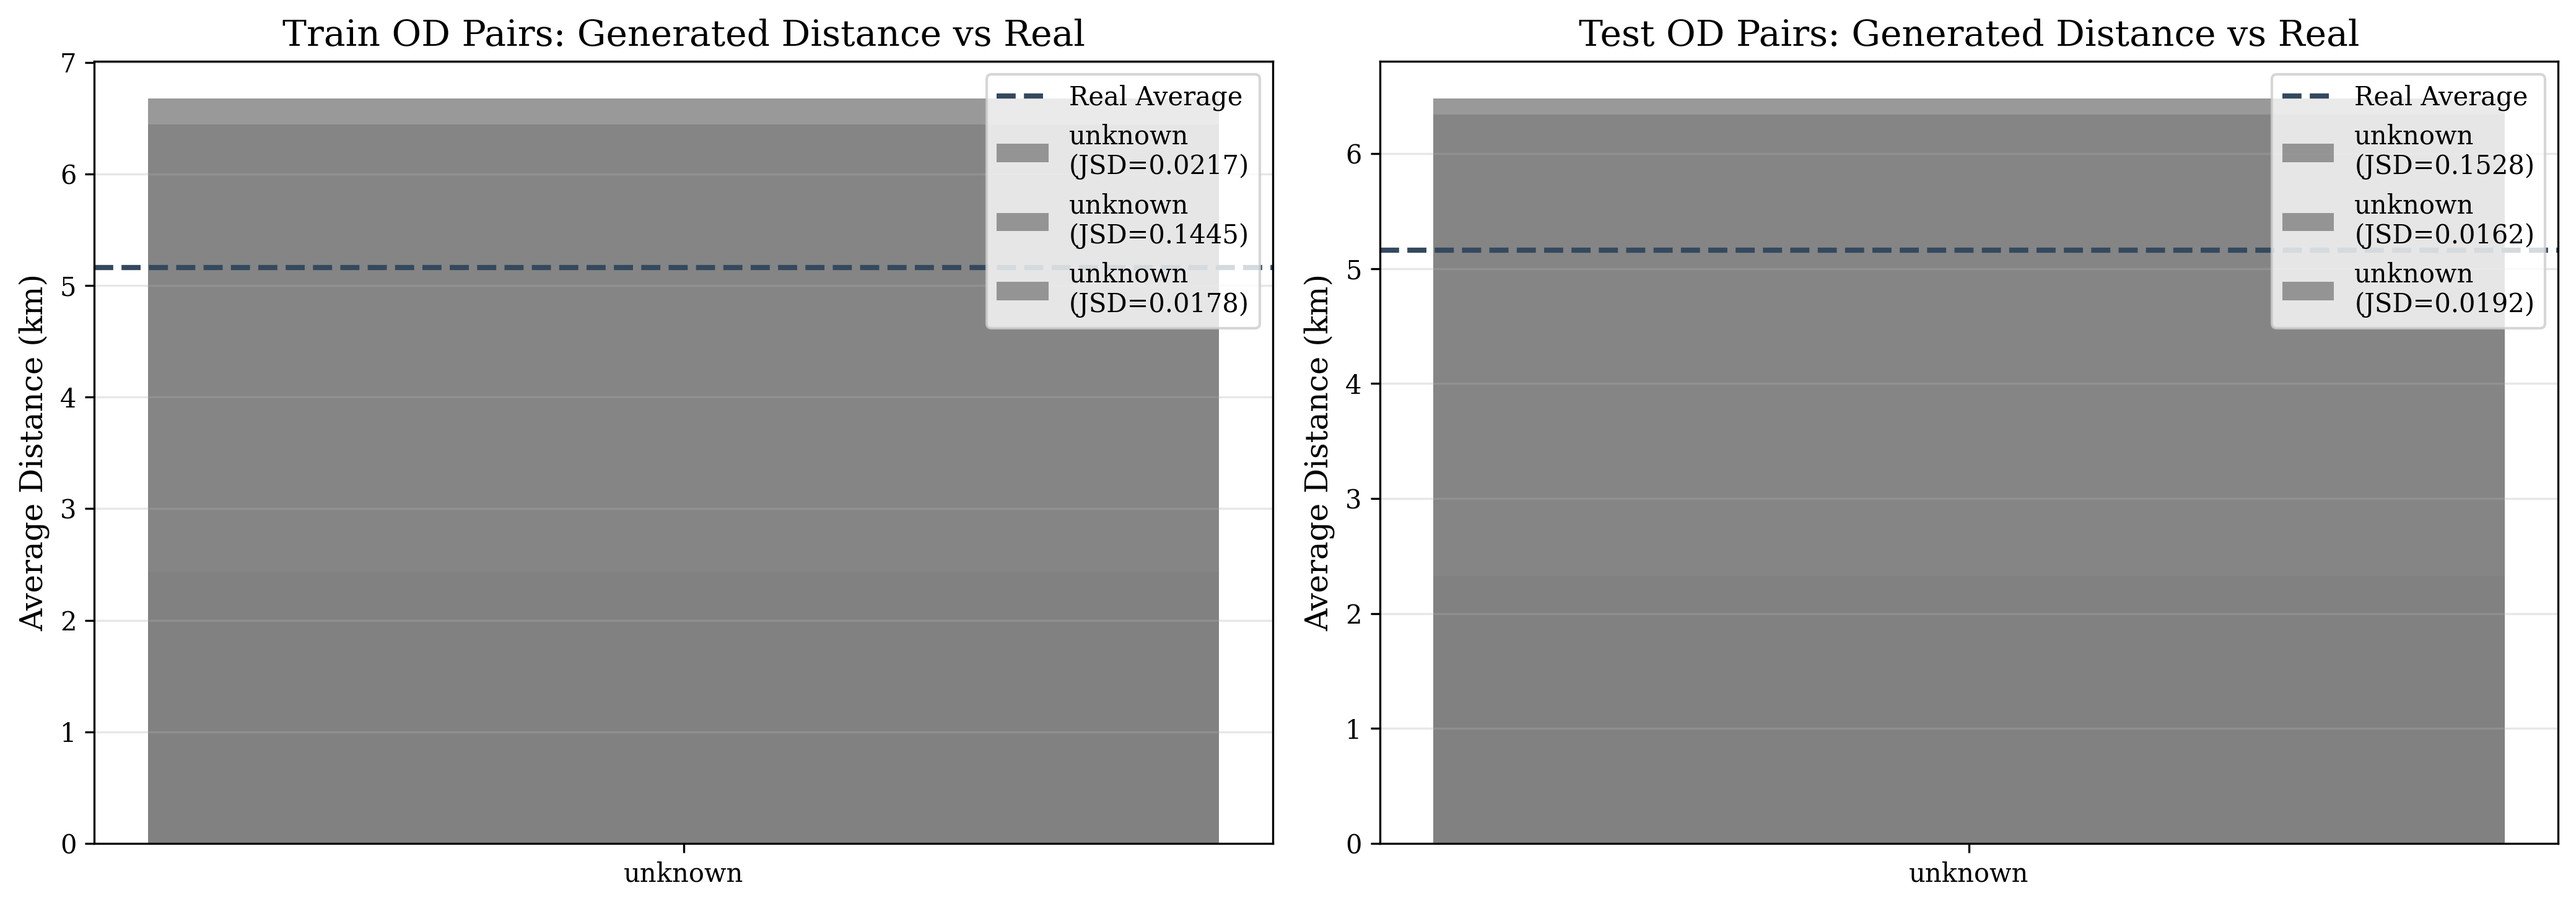
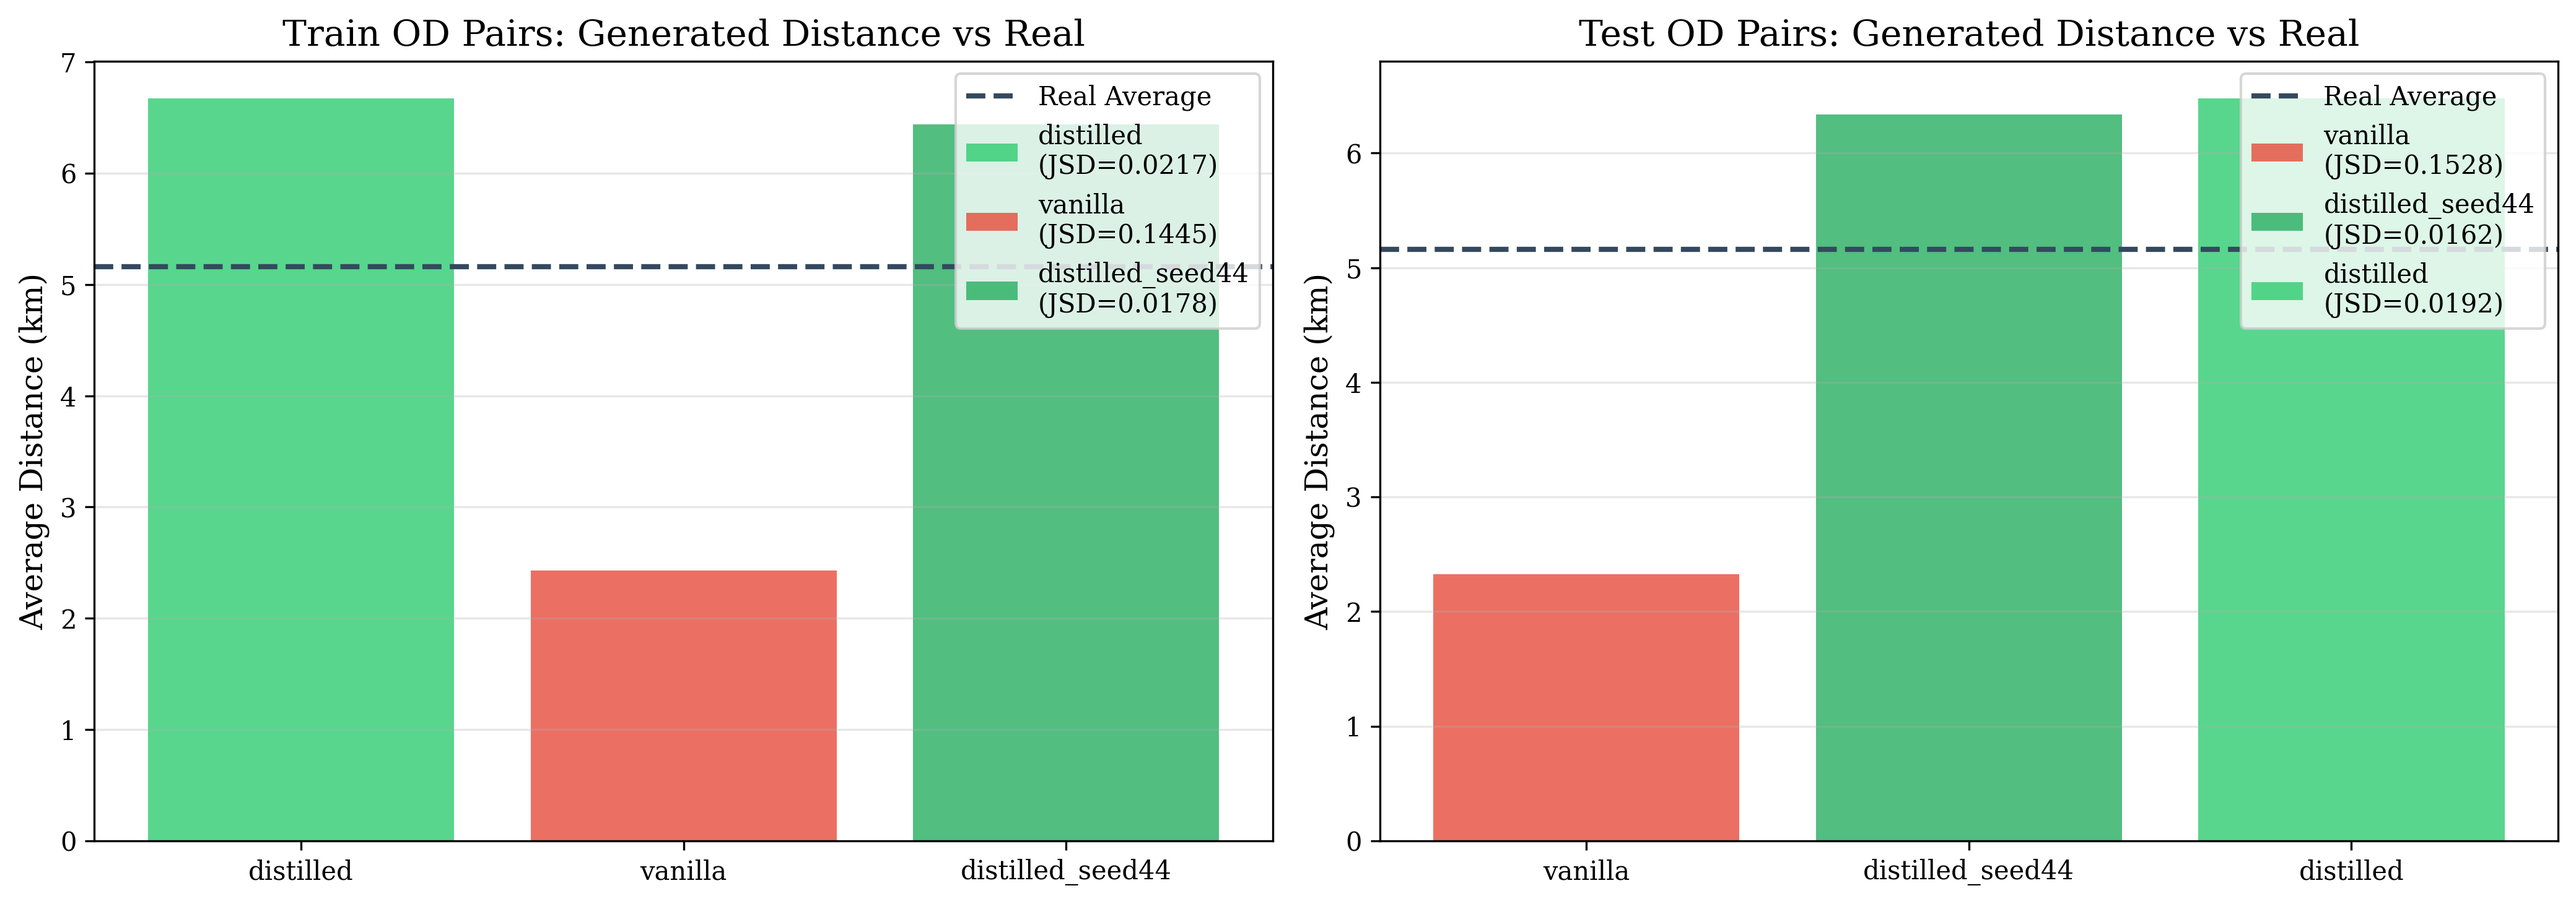
🐛 fix: correct model detection and sort heatmap in visualizations
- Fix model type detection using evaluation timestamp mapping
- Add fallback to filename-based detection for robustness
- Sort heatmap by model type (distilled, distilled_seed44, vanilla) then OD
- Remove warnings about empty data and log scale
- Regenerate all figures with correct data
- All plots now display properly with readable data

diff --git a/hoser-distill-optuna-6/create_analysis_figures.py b/hoser-distill-optuna-6/create_analysis_figures.py
@@ -71,16 +71,32 @@ class EvaluationVisualizer:
         # Determine OD source
         od_source = metadata.get('od_source', 'unknown')
         
-        # Determine model type from generated file path
+        # Determine model type from generated file path or timestamp mapping
         gen_file = metadata.get('generated_file', '')
-        if 'distilled_seed44' in gen_file:
-            model_type = 'distilled_seed44'
-        elif 'distilled' in gen_file:
-            model_type = 'distilled'
-        elif 'vanilla' in gen_file:
-            model_type = 'vanilla'
-        else:
-            model_type = 'unknown'
+        timestamp = metadata.get('evaluation_timestamp', '')
+        
+        # Use timestamp-based mapping (from the log analysis)
+        timestamp_to_model = {
+            '2025-10-08T18:32:17': 'distilled',     # train
+            '2025-10-08T19:19:30': 'distilled',     # test
+            '2025-10-08T20:08:30': 'distilled_seed44',  # train
+            '2025-10-08T20:53:17': 'distilled_seed44',  # test
+            '2025-10-08T21:31:30': 'vanilla',       # train
+            '2025-10-08T22:05:39': 'vanilla',       # test
+        }
+        
+        # Extract timestamp prefix (first 19 chars)
+        timestamp_key = timestamp[:19] if len(timestamp) >= 19 else ''
+        model_type = timestamp_to_model.get(timestamp_key, 'unknown')
+        
+        # Fallback to file-based detection if timestamp mapping fails
+        if model_type == 'unknown':
+            if 'distilled_seed44' in gen_file:
+                model_type = 'distilled_seed44'
+            elif 'distilled' in gen_file:
+                model_type = 'distilled'
+            elif 'vanilla' in gen_file:
+                model_type = 'vanilla'
         
         return model_type, od_source
     
@@ -279,13 +295,24 @@ class EvaluationVisualizer:
         metric_names = ['Distance_JSD', 'Radius_JSD', 'Duration_JSD',
                        'Hausdorff_km', 'DTW_km', 'EDR']
         
+        # Collect all data first
+        data_list = []
         for result in self.results:
             model_type, od_source = self._parse_model_info(result)
-            models_od.append(f"{model_type}\n({od_source})")
-            
             row = []
             for metric in metric_names:
                 row.append(result.get(metric, 0))
+            data_list.append((model_type, od_source, row))
+        
+        # Sort by model type then OD source
+        model_order = ['distilled', 'distilled_seed44', 'vanilla']
+        od_order = ['train', 'test']
+        data_list.sort(key=lambda x: (model_order.index(x[0]) if x[0] in model_order else 999, 
+                                       od_order.index(x[1]) if x[1] in od_order else 999))
+        
+        # Build sorted arrays
+        for model_type, od_source, row in data_list:
+            models_od.append(f"{model_type}\n({od_source})")
             metrics_data.append(row)
         
         # Normalize each metric to 0-1 scale for visualization
